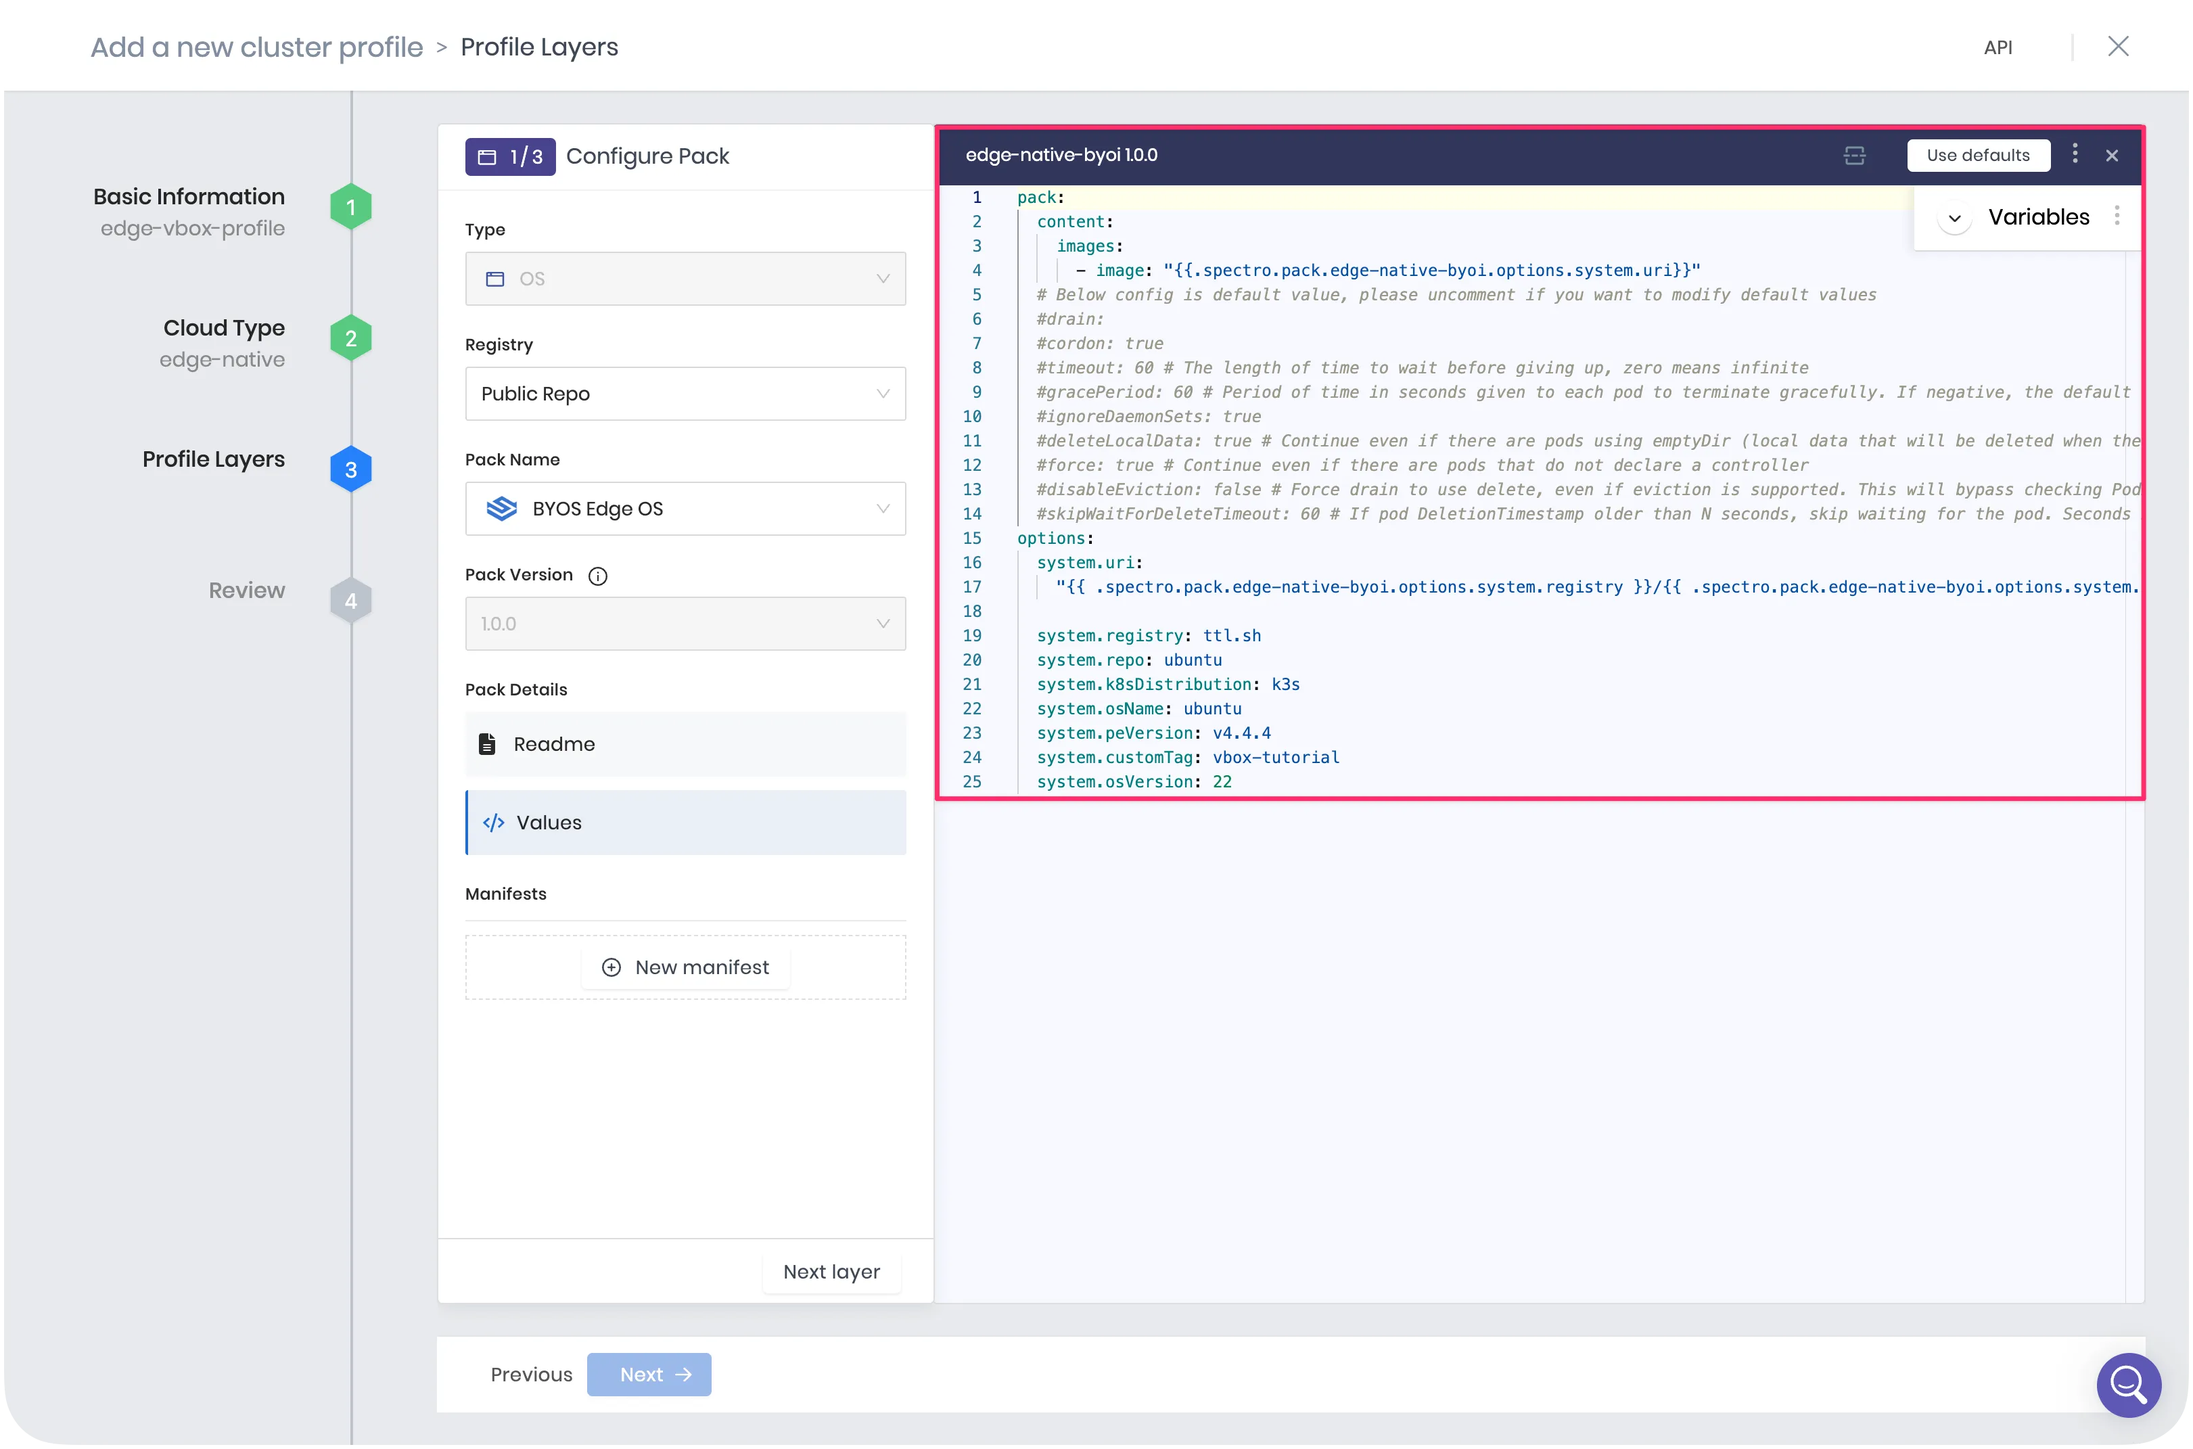
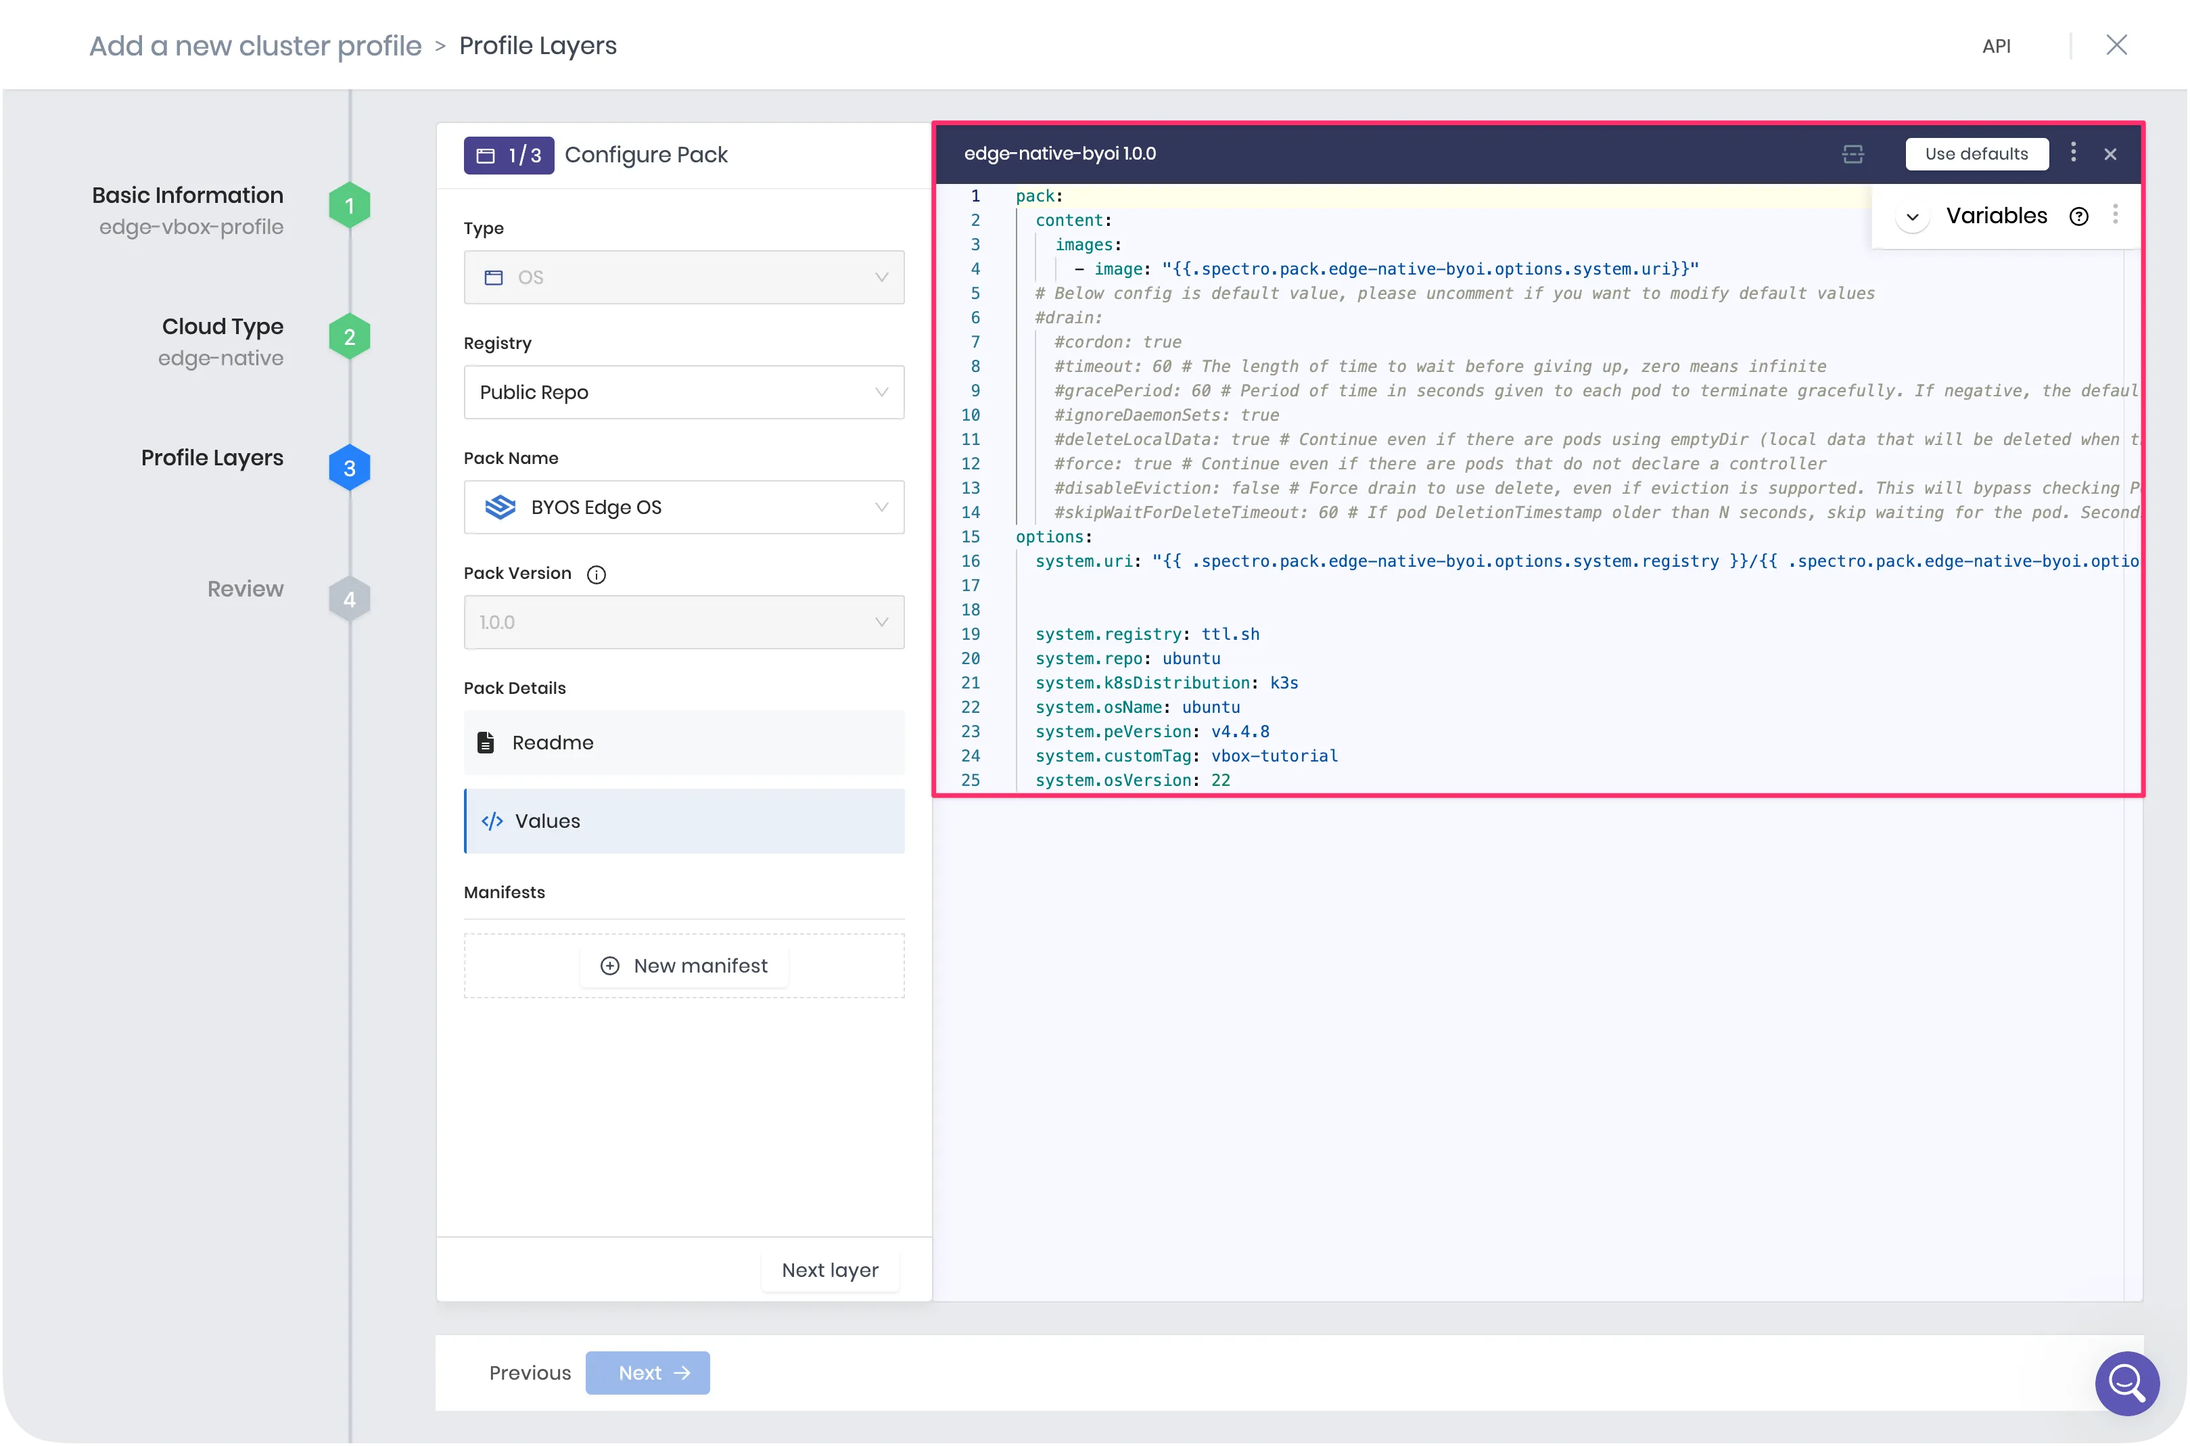
docs: update and test canvos 4.4.8 and final touches

diff --git a/docs/docs-content/tutorials/edge/deploy-cluster-virtualbox.md b/docs/docs-content/tutorials/edge/deploy-cluster-virtualbox.md
@@ -59,9 +59,8 @@ To complete this tutorial, you will need the following prerequisites in place.
   [Create a Registration Token](../../clusters/edge/site-deployment/site-installation/create-registration-token.md)
   guide for instructions on how to create a token.
 - The following software installed:
-  - [Docker Engine](https://docs.docker.com/engine/install/). You should have root-level or `sudo` privileges on your
-    Linux machine to create privileged containers.
   - A text editor such as Vi or Nano. This tutorial uses Vi as an example.
+  - [Docker Engine](https://docs.docker.com/engine/install/) with `sudo` privileges
   - [Git](https://git-scm.com/book/en/v2/Getting-Started-Installing-Git)
   - [VirtualBox](https://www.virtualbox.org/wiki/Downloads) version 7.0
 
@@ -106,17 +105,15 @@ Check the available git tags.
 git tag
 ```
 
-<!-- REPLACE 4.4.6 -->
-
-Check out the newest available tag. This tutorial uses the tag **v4.4.5** as an example.
+Check out the newest available tag. This tutorial uses the tag **v4.4.8** as an example.
 
 ```
-git checkout v4.4.5
+git checkout v4.4.8
 ```
 
 ### Define Arguments
 
-EdgeForge leverages [Earthly](https://earthly.dev) to build the Installer ISO and provider images artifacts. A filed
+EdgeForge leverages [Earthly](https://earthly.dev) to build the Installer ISO and provider images artifacts. A file
 called **.arg** is used to pass the values of a few arguments, such as the image tag and registry name, to Earthly for
 the build process.
 
@@ -139,7 +136,7 @@ OS_DISTRIBUTION=ubuntu
 IMAGE_REPO=ubuntu
 OS_VERSION=22
 K8S_DISTRIBUTION=k3s
-ISO_NAME=palette-edge-installer
+ISO_NAME=palette-installer
 ARCH=amd64
 UPDATE_KERNEL=false
 EOF
@@ -212,23 +209,21 @@ users:
 
 ### Build Edge Artifacts
 
-By default, the Earthfile builds multiple images with different K3s Kubernetes versions. You can exclude the image
-versions you do not need from the build process by commenting out the lines under the `build-provider-images` section in
-the **Earthfile**. This will speed up the build process and reduce the amount of space that is required from your host
+By default, Earthly builds multiple images with different K3s Kubernetes versions. You can exclude the image versions
+you do not need from the build process by commenting out the lines under the `build-provider-images` section in the
+**Earthfile**. This will speed up the build process and reduce the amount of space that is required from your host
 machine.
 
-Open the **Eathfile** with an editor of your choice.
+Open the **Earthfile** with an editor of your choice.
 
 ```bash
 vi Earthfile
 ```
 
-<!-- REPLACE 4.4.6 -->
-
 Next, comment out the K3s versions you do not need. This tutorial uses K3s version `1.29.6`. Below is an example of the
 file with the versions commented out.
 
-```text {15} hideClipboard
+```text {18} hideClipboard
        ELSE IF [ "$K8S_DISTRIBUTION" = "k3s" ]
           # BUILD  +$TARGET --K8S_VERSION=1.24.6
           # BUILD  +$TARGET --K8S_VERSION=1.25.2
@@ -267,12 +262,10 @@ finished, you get a success message similar to the one displayed below.
 🛰 Reuse cache between CI runs with Earthly Satellites! 2-20X faster than without cache. Generous free tier https://cloud.earthly.dev
 ```
 
-<!-- REPLACE 4.4.6, this output is not being generated in v4.4.5 -->
-
 The output also includes a manifest with predefined parameters you will use later to create the cluster profile. Copy
 and save the manifest.
 
-<!-- prettier-ignore-start -->
+<!-- prettier-ignore -->
 ```yaml
 pack:
   content:
@@ -280,27 +273,26 @@ pack:
       - image: "{{.spectro.pack.edge-native-byoi.options.system.uri}}"
   # Below config is default value, please uncomment if you want to modify default values
   #drain:
-  #cordon: true
-  #timeout: 60 # The length of time to wait before giving up, zero means infinite
-  #gracePeriod: 60 # Period of time in seconds given to each pod to terminate gracefully. If negative, the default value specified in the pod will be used
-  #ignoreDaemonSets: true
-  #deleteLocalData: true # Continue even if there are pods using emptyDir (local data that will be deleted when the node is drained)
-  #force: true # Continue even if there are pods that do not declare a controller
-  #disableEviction: false # Force drain to use delete, even if eviction is supported. This will bypass checking PodDisruptionBudgets, use with caution
-  #skipWaitForDeleteTimeout: 60 # If pod DeletionTimestamp older than N seconds, skip waiting for the pod. Seconds must be greater than 0 to skip.
+    #cordon: true
+    #timeout: 60 # The length of time to wait before giving up, zero means infinite
+    #gracePeriod: 60 # Period of time in seconds given to each pod to terminate gracefully. If negative, the default value specified in the pod will be used
+    #ignoreDaemonSets: true
+    #deleteLocalData: true # Continue even if there are pods using emptyDir (local data that will be deleted when the node is drained)
+    #force: true # Continue even if there are pods that do not declare a controller
+    #disableEviction: false # Force drain to use delete, even if eviction is supported. This will bypass checking PodDisruptionBudgets, use with caution
+    #skipWaitForDeleteTimeout: 60 # If pod DeletionTimestamp older than N seconds, skip waiting for the pod. Seconds must be greater than 0 to skip.
 options:
-  system.uri:
-    "{{ .spectro.pack.edge-native-byoi.options.system.registry }}/{{ .spectro.pack.edge-native-byoi.options.system.repo}}:{{ .spectro.pack.edge-native-byoi.options.system.k8sDistribution }}-{{ .spectro.system.kubernetes.version }}-{{.spectro.pack.edge-native-byoi.options.system.peVersion }}-{{.spectro.pack.edge-native-byoi.options.system.customTag }}"
+  system.uri: "{{ .spectro.pack.edge-native-byoi.options.system.registry }}/{{ .spectro.pack.edge-native-byoi.options.system.repo }}:{{ .spectro.pack.edge-native-byoi.options.system.k8sDistribution }}-{{ .spectro.system.kubernetes.version }}-{{ .spectro.pack.edge-native-byoi.options.system.peVersion }}-{{ .spectro.pack.edge-native-byoi.options.system.customTag }}"
+
 
   system.registry: ttl.sh
   system.repo: ubuntu
   system.k8sDistribution: k3s
   system.osName: ubuntu
-  system.peVersion: v4.4.4
+  system.peVersion: v4.4.8
   system.customTag: vbox-tutorial
   system.osVersion: 22
 ```
-<!-- prettier-ignore-end -->
 
 Once the build is complete, confirm that the Edge Installer ISO and its checksum were created correctly.
 
@@ -309,8 +301,8 @@ ls build
 ```
 
 ```text hideClipboard
-palette-edge-installer.iso
-palette-edge-installer.iso.sha256
+palette-installer.iso
+palette-installer.iso.sha256
 ```
 
 List the container images to confirm that the provider images were built successfully.
@@ -319,38 +311,25 @@ List the container images to confirm that the provider images were built success
 docker images --filter=reference="*/*:*$CUSTOM_TAG"
 ```
 
-<!-- replace 4.4.6 -->
-
 ```text hideClipboard
-REPOSITORY      TAG                               IMAGE ID       CREATED        SIZE
-ttl.sh/ubuntu   k3s-1.29.6-v4.4.4-vbox-tutorial   545feb4ece48   2 hours ago   3.59GB
+REPOSITORY      TAG                               IMAGE ID       CREATED          SIZE
+ttl.sh/ubuntu   k3s-1.29.6-v4.4.8-vbox-tutorial   75811e3dfb42   13 minutes ago   3.63GB
 ```
-
-:::info
-
-The provider images are tagged with the Palette Edge release. In this tutorial, CanvOS version 4.4.5 is used, which
-utilizes Palette Edge version 4.4.4. Therefore, Palette Edge and CanvOS tags may differ.
-
-:::
 
 ### Push Provider Images
 
 Push the provider images to the [ttl.sh](https://ttl.sh/) registry so that you can reference it when creating the
 cluster profile.
 
-<!-- replace 4.4.6 -->
-
 ```bash
-docker push ttl.sh/ubuntu:k3s-1.29.6-v4.4.4-$CUSTOM_TAG
+docker push ttl.sh/ubuntu:k3s-1.29.6-v4.4.8-$CUSTOM_TAG
 ```
 
 The output confirms that the image was pushed to the registry with the correct tag.
 
-<!-- replace 4.4.6 -->
-
 ```text hideClipboard
 # Output condensed for readability
-k3s-1.29.6-v4.4.4-vbox-tutorial: digest: sha256:128f0f77c865177b54ecec1bfad7fe0b70418cd84d1bb598149baa63f4457365 size: 17399
+k3s-1.29.6-v4.4.8-vbox-tutorial: digest: sha256:42f8805830c7fd3816bb27e8d710d1747fea31a70cb7718d74e42fe1c0ed53ac size: 17815
 ```
 
 :::warning
@@ -375,8 +354,8 @@ In the **Basic Information** section, assign the name **edge-vbox-profile** and 
 type as **Full**, and assign the tag **env:edge**. You can leave the version empty if you want to. Just be aware that
 the version defaults to **1.0.0**. Click on **Next**.
 
-**Cloud Type** allows you to choose the infrastructure provider with which this cluster profile is associated. Select
-**Edge Native** and click **Next**.
+The **Cloud Type** section allows you to choose the infrastructure provider for the cluster. Select **Edge Native** and
+click **Next**.
 
 The **Profile Layers** section specifies the packs that compose the profile.
 
@@ -464,10 +443,10 @@ you added are correct, and click on **Finish Configuration** to create the clust
 
 ## Deploy VirtualBox VM
 
-Once the Edge artifacts and Palette cluster profile have been created, proceed to the VM deployment. The VirtualBox VM
-will use the Installer ISO to bootstrap the Edge installation and serve as the Edge host for your cluster.
+Once the Edge artifacts and cluster profile have been created, proceed to the VM deployment. The VirtualBox VM will use
+the Installer ISO to bootstrap the Edge installation and serve as the Edge host for your cluster.
 
-Launch the VirtualBox application and click **New Virtual Machine**.
+Launch the VirtualBox application and click **New** to create a new VM.
 
 Give the machine a name, for example, `edge-vm`.
 
@@ -480,7 +459,7 @@ Set the machine **Type** as `Linux` and the **Version** as `Ubuntu (64-bit)`, an
 
 Adjust the **Base Memory** to `8000 MB` and **Processors** to `2 CPU`. Click **Next** to proceed.
 
-Set the **Disk Size** to 100 GB and ensure the option **Pre-Allocate Full Size** is not checked. Click **Next**.
+Set the **Disk Size** to 100 GB and ensure the option **Pre-Allocate Full Size** is **not** checked. Click **Next**.
 
 :::info
 
@@ -493,19 +472,17 @@ Confirm the VM settings and click **Finish** to create the VM.
 
 Select the VM to adjust its network settings. Click **Settings** and select **Network**.
 
-Change the option **Attached to:** from `NAT` to `Bridged Adapter` so the VM can receive an IP address from the same
-network as the host machine. Click **OK**.
+Change the **Attached to:** option from `NAT` to `Bridged Adapter` so that the VM can receive an IP address from the
+same network as the host machine's network. Click **OK**.
 
 ![A screenshot of the VirtualBox VM network configuration.](/tutorials/edge-vbox/tutorials_edge-vbox_deploy-cluster-virtualbox_vm-network.webp)
-
-Once you finish the network configuration, the VM will be created.
 
 ## Prepare Edge Host
 
 ### Install Palette Edge
 
-In VirtualBox, select the VM and click **Start** to turn it on. The Edge Installer will bootstrap the Palette Edge
-installation onto the VM.
+In VirtualBox, select the created VM and click **Start** to turn it on. The Edge Installer will bootstrap the Palette
+Edge installation onto the VM.
 
 Wait for the Edge Installer to complete copying content to the VM, which may take a few minutes. The VM will reboot by
 default upon completion.
@@ -544,7 +521,7 @@ displayed on your VM's screen.
 
 ## Deploy Edge Cluster
 
-The following steps will guide you through deploying the Edge cluster infrastructure.
+The following steps will guide you through deploying the Edge cluster.
 
 Select **Clusters** from Palette's left **Main Menu** and click on **Create Cluster**. Ensure you are in the **Default**
 project.
@@ -605,11 +582,8 @@ cluster role binding. For this tutorial, you can use the default settings. Click
 Finally, the **Review** section allows you to review the cluster configuration. If everything looks correct, click
 **Finish Configuration** to deploy the cluster.
 
-The cluster deployment can take 15 to 30 minutes, depending on its configuration.
-
-Click on the **Events** tab to visualize the event log and learn more about the deployment progress.
-
-![A screenshot of the cluster's Events tab.](/tutorials/edge-vbox/tutorials_edge-vbox_deploy-cluster-virtualbox_cluster-events.webp)
+The cluster deployment can take 15 to 30 minutes, depending on its configuration. You can click on the **Events** tab to
+visualize the event log and learn more about the deployment progress.
 
 ## Validate
 
@@ -629,11 +603,10 @@ on the logo to increase the global counter and for a fun image change.
 
 ![A screenshot of the Hello Universe application.](/tutorials/edge-vbox/tutorials_edge-vbox_deploy-cluster-virtualbox_hello-universe.webp)
 
-You have successfully provisioned an Edge cluster with a three-tier demo application.
-
 ## Clean Up
 
-Use the following steps to remove the resources created for this tutorial.
+You have successfully provisioned an Edge cluster with a three-tier demo application. Use the following steps to remove
+the resources created for this tutorial.
 
 ### Cluster and Cluster Profile
 
@@ -642,8 +615,7 @@ named **edge-vbox-cluster** to access its details page.
 
 Next, click **Settings** and select **Delete Cluster**.
 
-You will be prompted to type in the cluster name to confirm the delete action. Type in the cluster name to proceed with
-the delete step. The deletion process takes several minutes to complete.
+Type in the cluster name to proceed with the deletion. This process may take several minutes to complete.
 
 :::info
 
@@ -680,15 +652,15 @@ Next, right-click the VM again and select **Remove**. Click **Delete all files**
 Delete the Edge Installer ISO image and its checksum by issuing the following commands from the **CanvOS/** directory.
 
 ```bash
-rm build/palette-edge-installer.iso
-rm build/palette-edge-installer.iso.sha256
+rm build/palette-installer.iso
+rm build/palette-installer.iso.sha256
 ```
 
 Next, delete the provider images.
 
 ```bash
-docker rmi ttl.sh/ubuntu:k3s-1.29.6-v4.4.4-vbox-tutorial
-docker rmi ttl.sh/ubuntu:k3s-1.29.6-v4.4.4-vbox-tutorial_linux_amd64
+docker rmi ttl.sh/ubuntu:k3s-1.29.6-v4.4.8-vbox-tutorial
+docker rmi ttl.sh/ubuntu:k3s-1.29.6-v4.4.8-vbox-tutorial_linux_amd64
 ```
 
 ## Wrap-up
@@ -700,9 +672,9 @@ Edge cluster.
 Palette Edge enables you to customize your Edge hosts with the desired OS, Kubernetes distribution, dependencies, and
 user data configurations.
 
-This tutorial setup has provided you with hands-on experience with Palette Edge using a single VM, eliminating the need
-for a complex lab environment or separate physical devices. You can also use this setup to quickly test and validate
-Edge configurations before deploying them in production.
+This tutorial has provided you with hands-on experience with Palette Edge using a single VM, eliminating the need for a
+complex lab environment or separate physical devices. You can also use this setup to quickly test and validate Edge
+configurations before deploying them in production.
 
 We encourage you to check the reference resources below to learn more about Palette Edge.
 
